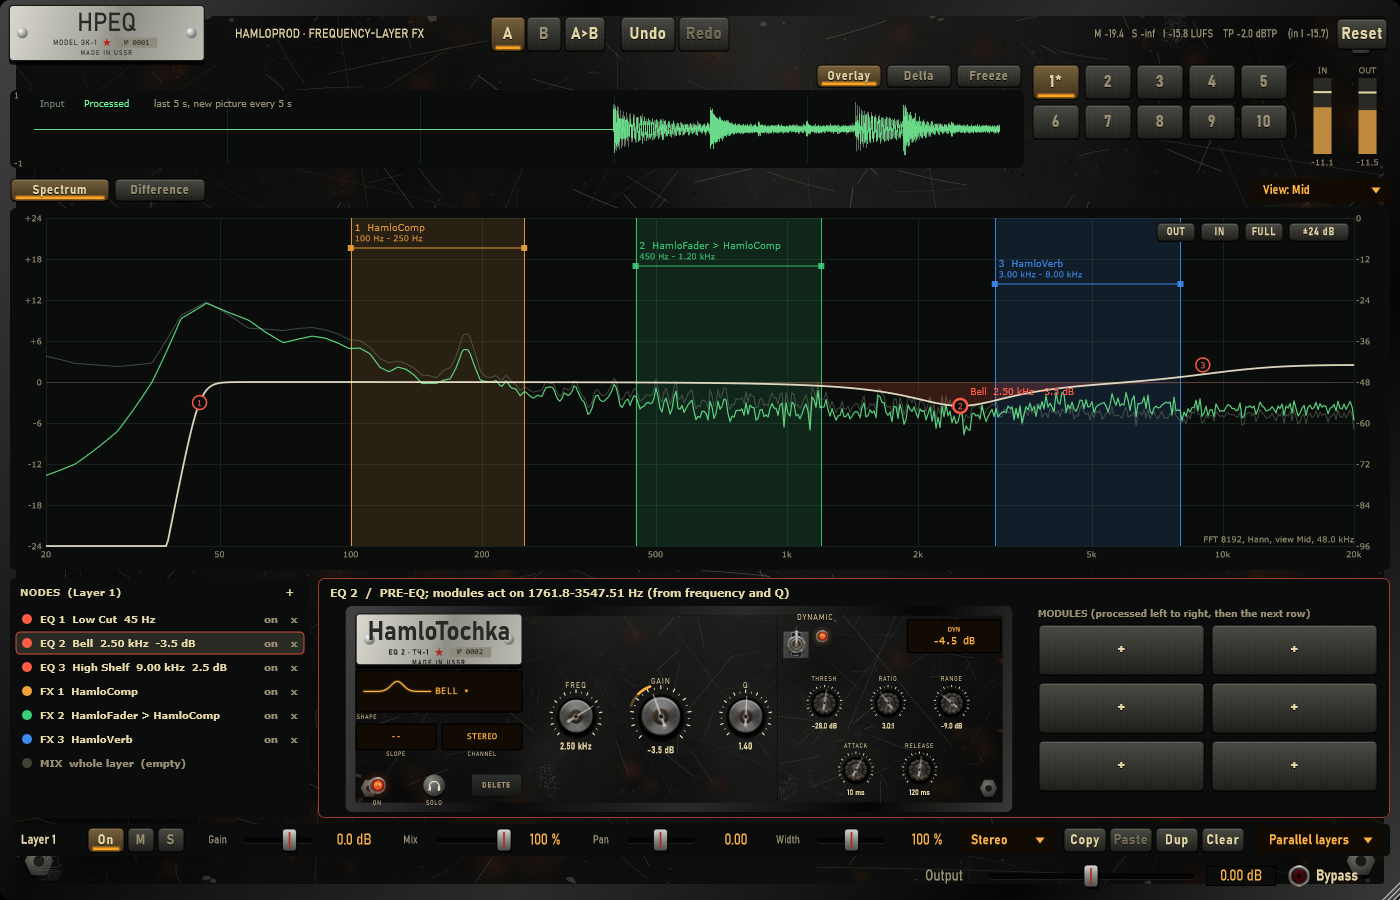
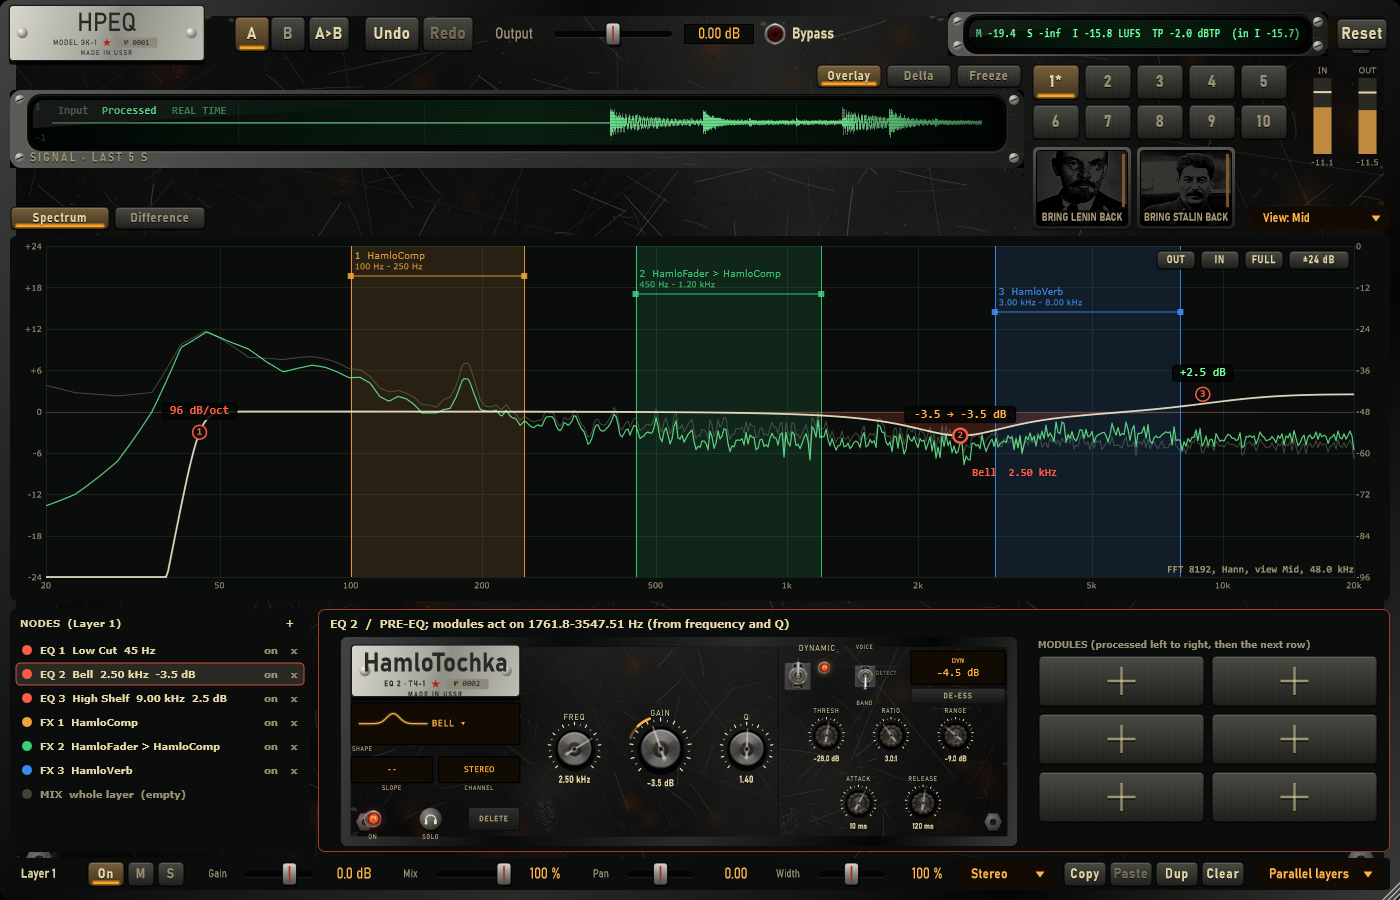
De-esser on the EQ point: DETECT BAND / VOICE and a DE-ESS button
The point's DYNAMIC can now detect against the voice body (300 Hz - 3 kHz):
it reacts to how far an "s" stands out over the voice, not to how loud the
singer is. DE-ESS sets the point as a de-esser (bell 7 kHz Q 0.8, VOICE,
-28 dB, ratio 4, range -9 dB, 0.5 / 40 ms). Synthetic voice: "s" -5.5 dB,
vowels 0.0 dB. HPEQ_Tests 1681/1681.

diff --git a/Tests/Unit/EqPassTests.cpp b/Tests/Unit/EqPassTests.cpp
@@ -274,6 +274,85 @@ public:
             plugin->editorBeingDeleted(editor.get());
         }
 
+        beginTest("De-esser on the point (DE-ESS, VOICE): an \"s\" loses >= 4 dB; a vowel, also 6 dB louder, changes <= 0.5 dB; DETECT round-trips; the page button sets the point");
+        {
+            // a synthetic voice: a vowel (180 Hz with formants near 700 / 1200 / 2600 Hz), then an "s" (noise
+            // band-passed around 7 kHz), then the vowel 6 dB louder
+            const int segment = 24000;
+            juce::AudioBuffer<float> x(2, 3 * segment);
+            juce::Random r(7);
+            double z1 = 0.0, z2 = 0.0;
+            const double w = 2.0 * juce::MathConstants<double>::pi * 7000.0 / kFs, alpha = std::sin(w) / 2.0, a0 = 1.0 + alpha;
+            const double b0 = alpha / a0, b2 = -alpha / a0, a1 = -2.0 * std::cos(w) / a0, a2 = (1.0 - alpha) / a0;
+            for (int i = 0; i < x.getNumSamples(); ++i)
+            {
+                double v = 0.0;
+                const int seg = i / segment;
+                if (seg != 1)
+                {
+                    for (int h = 1; h * 180.0 < 4000.0; ++h)
+                    {
+                        const double f = h * 180.0;
+                        const double formant = std::exp(-std::pow((f - 700.0) / 250.0, 2.0)) + 0.7 * std::exp(-std::pow((f - 1200.0) / 300.0, 2.0))
+                                               + 0.35 * std::exp(-std::pow((f - 2600.0) / 400.0, 2.0)) + 0.02;
+                        v += 0.05 * formant * std::sin(2.0 * juce::MathConstants<double>::pi * f * i / kFs);
+                    }
+                    if (seg == 2)
+                        v *= 2.0;
+                }
+                else
+                {
+                    const double n = 2.0 * r.nextDouble() - 1.0;
+                    const double y = b0 * n + z1;
+                    z1 = -a1 * y + z2;
+                    z2 = b2 * n - a2 * y;
+                    v = 0.6 * y;
+                }
+                x.setSample(0, i, static_cast<float>(v));
+                x.setSample(1, i, static_cast<float>(v));
+            }
+            EqNodeState p;
+            p.id = 1;
+            p.shape = EqShape::Bell;
+            p.frequencyHz = 7000.0;
+            p.q = 0.8;
+            p.dynamic = true;
+            p.detect = 1;
+            p.thresholdDb = -28.0;
+            p.ratio = 4.0;
+            p.rangeDb = -9.0;
+            p.attackMs = 0.5;
+            p.releaseMs = 40.0;
+            const auto y = renderEq(x, { p });
+            const auto rmsDb = [](const juce::AudioBuffer<float>& b, int from, int count)
+            {
+                double e = 0.0;
+                for (int i = from; i < from + count; ++i)
+                    e += static_cast<double>(b.getSample(0, i)) * b.getSample(0, i);
+                return 10.0 * std::log10(e / count + 1.0e-20);
+            };
+            const int skip = 4800; // past the attack / release around each change
+            const double vowel = rmsDb(y, skip, segment - skip) - rmsDb(x, skip, segment - skip);
+            const double ess = rmsDb(y, segment + skip, segment - skip) - rmsDb(x, segment + skip, segment - skip);
+            const double loud = rmsDb(y, 2 * segment + skip, segment - skip) - rmsDb(x, 2 * segment + skip, segment - skip);
+            logMessage("  vowel " + juce::String(vowel, 3) + " dB, s " + juce::String(ess, 2) + " dB, vowel +6 dB " + juce::String(loud, 3) + " dB");
+            expect(ess <= -4.0 && std::abs(vowel) <= 0.5 && std::abs(loud) <= 0.5);
+
+            FxProjectState project;
+            project.layers[0].eqNodes = { p };
+            project.nextNodeId = 2;
+            sanitize(project);
+            const auto back = fromValueTree(juce::ValueTree::fromXml(*toValueTree(project).createXml()));
+            expect(back.has_value() && back->layers[0].eqNodes[0].detect == 1);
+
+            ui::HamloTochkaPanel page;
+            page.setSize(1100, 340);
+            EqNodeState sent;
+            page.onChange = [&](const EqNodeState& n, const juce::String&) { sent = n; };
+            page.pressDeEss();
+            expect(sent.dynamic && sent.detect == 1 && sent.shape == EqShape::Bell && sent.frequencyHz == 7000.0 && sent.rangeDb == -9.0 && sent.attackMs == 0.5);
+        }
+
         beginTest("Steel style: the window and its menus use SteelLookAndFeel while open; the default goes back when the last window closes");
         {
             auto plugin = std::make_unique<FxPluginProcessor>();

diff --git a/Source/UI/HamloTochkaPanel.cpp b/Source/UI/HamloTochkaPanel.cpp
@@ -22,6 +22,8 @@ const juce::Point<float> kOnLamp { 52.0f, 296.0f }, kSolo { 146.0f, 296.0f };
 const juce::Rectangle<float> kDelete { 208.0f, 278.0f, 82.0f, 36.0f };
 const juce::Point<float> kDynLever { 742.0f, 64.0f }, kDynLamp { 786.0f, 50.0f };
 const juce::Rectangle<float> kGainLcd { 928.0f, 24.0f, 152.0f, 52.0f };
+const juce::Point<float> kDetectLever { 852.0f, 64.0f };
+const juce::Rectangle<float> kDeEss { 928.0f, 84.0f, 152.0f, 24.0f };
 const juce::Rectangle<float> kChooser { 18.0f, 14.0f, 1064.0f, 312.0f };
 
 struct KnobInfo
@@ -229,6 +231,37 @@ void HamloTochkaPanel::setDynamic(bool on)
         onGestureEnd();
 }
 
+void HamloTochkaPanel::setDetect(int d)
+{
+    if (onGestureStart)
+        onGestureStart("Detect");
+    values.node.detect = juce::jlimit(0, 1, d);
+    change("Detect");
+    if (onGestureEnd)
+        onGestureEnd();
+}
+
+void HamloTochkaPanel::pressDeEss()
+{
+    if (onGestureStart)
+        onGestureStart("De-ess");
+    auto& n = values.node;
+    n.shape = EqShape::Bell;
+    n.frequencyHz = 7000.0;
+    n.q = 0.8; // wide: sibilance spreads over 4.5 - 11 kHz
+    n.gainDb = 0.0;
+    n.dynamic = true;
+    n.detect = 1;
+    n.thresholdDb = -28.0;
+    n.ratio = 4.0;
+    n.rangeDb = -9.0;
+    n.attackMs = 0.5;
+    n.releaseMs = 40.0;
+    change("De-ess");
+    if (onGestureEnd)
+        onGestureEnd();
+}
+
 void HamloTochkaPanel::openShapes(bool open)
 {
     shapesOpen = open;
@@ -272,6 +305,9 @@ void HamloTochkaPanel::renderStatic(juce::Graphics& g) const
     engraved(g, "ON", { kOnLamp.x - 30.0f, kOnLamp.y + 22.0f, 60.0f, 14.0f }, 11.0f);
     engraved(g, "SOLO", { kSolo.x - 30.0f, kSolo.y + 22.0f, 60.0f, 14.0f }, 11.0f);
     engraved(g, "DYNAMIC", { 700.0f, 10.0f, 150.0f, 18.0f }, 14.0f);
+    engraved(g, "VOICE", { kDetectLever.x - 40.0f, 10.0f, 80.0f, 14.0f }, 10.0f);
+    engraved(g, "BAND", { kDetectLever.x - 40.0f, 100.0f, 80.0f, 14.0f }, 10.0f);
+    engraved(g, "DETECT", { kDetectLever.x + 18.0f, 52.0f, 60.0f, 14.0f }, 9.5f, stencilDim, juce::Justification::centredLeft);
     // a groove between the point and the dynamics
     g.setColour(juce::Colours::black);
     g.drawVerticalLine(712, 20.0f, kH - 20.0f);
@@ -370,6 +406,9 @@ void HamloTochkaPanel::paint(juce::Graphics& g)
     g.setColour(juce::Colours::white);
     lever(g, kDynLever, 0.0f, 1.0f, n.dynamic ? LeverPosition::Up : LeverPosition::Down);
     lamp(g, kDynLamp, n.dynamic && isGain(n.shape), 0.3f, kInk);
+    g.setColour(juce::Colours::white);
+    lever(g, kDetectLever, 0.0f, 0.8f, n.detect == 1 ? LeverPosition::Up : LeverPosition::Down);
+    crtButton(g, kDeEss, "DE-ESS", n.dynamic && n.detect == 1 && isGain(n.shape));
     juce::String line1 = "DYN", line2;
     if (!isGain(n.shape))
         line2 = "GAIN SHAPES";
@@ -460,6 +499,10 @@ void HamloTochkaPanel::mouseDown(const juce::MouseEvent& e)
     }
     if (juce::Rectangle<float>(kDynLever.x - 24.0f, kDynLever.y - 34.0f, 72.0f, 60.0f).contains(d))
         return setDynamic(!n.dynamic);
+    if (juce::Rectangle<float>(kDetectLever.x - 24.0f, kDetectLever.y - 34.0f, 48.0f, 60.0f).contains(d))
+        return setDetect(n.detect == 1 ? 0 : 1);
+    if (kDeEss.contains(d))
+        return pressDeEss();
     if (const int k = knobAt(d); k >= 0 && enabledFor(n, static_cast<Param>(k)))
     {
         dragKnob = k;

diff --git a/Source/DSP/PreEqProcessor.cpp b/Source/DSP/PreEqProcessor.cpp
@@ -147,6 +147,7 @@ void PreEqProcessor::prepare(double newSampleRate) noexcept
 {
     sampleRate = newSampleRate;
     rampSteps = stepsFor(kParameterRampSeconds, sampleRate / kControlInterval);
+    voiceG = std::tan(3.14159265358979323846 * 1000.0 / sampleRate);
     birthSteps = stepsFor(kBirthSeconds, sampleRate / kControlInterval);
     mixSteps = stepsFor(kMixRampSeconds, sampleRate);
     crossfadeSteps = stepsFor(kStructureCrossfadeSeconds, sampleRate);
@@ -305,6 +306,25 @@ void PreEqProcessor::detect(Band& b, double l, double r, int numChannels) noexce
         }
     const double c = level > b.env ? b.attackCoef : b.releaseCoef;
     b.env = level + c * (b.env - level);
+    if (b.target.detect == 1)
+    {
+        // the voice body, linked the same way; same attack / release, so the ratio follows syllables
+        const auto voice = [&](int ch, double x) { return std::abs(svf(b.voiceState[static_cast<size_t>(ch)], voiceG, 1.0 / 0.6, 0, x)); };
+        double v = 0.0;
+        if (numChannels == 1)
+            v = voice(0, l);
+        else
+            switch (b.target.channel)
+            {
+                case ChannelMode::Left:  v = voice(0, l); break;
+                case ChannelMode::Right: v = voice(1, r); break;
+                case ChannelMode::Mid:   v = voice(0, 0.5 * (l + r)); break;
+                case ChannelMode::Side:  v = voice(0, 0.5 * (l - r)); break;
+                default:                 v = std::max(voice(0, l), voice(1, r)); break;
+            }
+        const double cv = v > b.voiceEnv ? b.attackCoef : b.releaseCoef;
+        b.voiceEnv = v + cv * (b.voiceEnv - v);
+    }
 }
 
 void PreEqProcessor::advanceControl(Band& b, size_t index) noexcept
@@ -331,7 +351,9 @@ void PreEqProcessor::advanceControl(Band& b, size_t index) noexcept
         }
         b.attackCoef = std::exp(-1.0 / (std::max(0.1, static_cast<double>(t.attackMs)) * 1.0e-3 * sampleRate));
         b.releaseCoef = std::exp(-1.0 / (std::max(5.0, static_cast<double>(t.releaseMs)) * 1.0e-3 * sampleRate));
-        const double over = 20.0 * std::log10(b.env + 1.0e-9) - t.thresholdDb;
+        const double bandDb = 20.0 * std::log10(b.env + 1.0e-9);
+        const double detectDb = t.detect == 1 ? (bandDb < -60.0 ? -200.0 : bandDb - 20.0 * std::log10(b.voiceEnv + 1.0e-9) - 20.0) : bandDb;
+        const double over = detectDb - t.thresholdDb;
         const double knee = over <= -3.0 ? 0.0 : over < 3.0 ? (over + 3.0) * (over + 3.0) / 12.0 : over;
         const double amount = std::min(std::abs(static_cast<double>(t.rangeDb)), knee * (1.0 - 1.0 / std::max(1.0, static_cast<double>(t.ratio))));
         offset = t.rangeDb < 0.0f ? -amount : amount;

diff --git a/Source/Core/FxProjectState.cpp b/Source/Core/FxProjectState.cpp
@@ -45,6 +45,7 @@ const juce::Identifier dynRatio { "dynRatio" };
 const juce::Identifier dynAttackMs { "dynAttackMs" };
 const juce::Identifier dynReleaseMs { "dynReleaseMs" };
 const juce::Identifier dynRangeDb { "dynRangeDb" };
+const juce::Identifier dynDetect { "dynDetect" };
 const juce::Identifier lowHz { "lowHz" };
 const juce::Identifier highHz { "highHz" };
 const juce::Identifier type { "type" };
@@ -525,7 +526,7 @@ juce::ValueTree toValueTree(const FxProjectState& project)
                 nt.setProperty(ids::solo, true, nullptr);
             const EqNodeState plain;
             if (node.dynamic || node.thresholdDb != plain.thresholdDb || node.ratio != plain.ratio || node.attackMs != plain.attackMs
-                || node.releaseMs != plain.releaseMs || node.rangeDb != plain.rangeDb)
+                || node.releaseMs != plain.releaseMs || node.rangeDb != plain.rangeDb || node.detect != plain.detect)
             {
                 nt.setProperty(ids::dynamic, node.dynamic, nullptr);
                 nt.setProperty(ids::dynThresholdDb, exactText(node.thresholdDb), nullptr);
@@ -533,6 +534,8 @@ juce::ValueTree toValueTree(const FxProjectState& project)
                 nt.setProperty(ids::dynAttackMs, exactText(node.attackMs), nullptr);
                 nt.setProperty(ids::dynReleaseMs, exactText(node.releaseMs), nullptr);
                 nt.setProperty(ids::dynRangeDb, exactText(node.rangeDb), nullptr);
+                if (node.detect != 0)
+                    nt.setProperty(ids::dynDetect, node.detect, nullptr);
             }
             if (!node.chain.empty())
             {
@@ -634,6 +637,7 @@ std::optional<FxProjectState> fromValueTree(const juce::ValueTree& root, juce::S
                 node.attackMs = readDouble(nt, ids::dynAttackMs, 10.0);
                 node.releaseMs = readDouble(nt, ids::dynReleaseMs, 120.0);
                 node.rangeDb = readDouble(nt, ids::dynRangeDb, -6.0);
+                node.detect = juce::jlimit(0, 1, static_cast<int>(nt.getProperty(ids::dynDetect, 0)));
                 node.engineSlot = nt.getProperty(ids::engineSlot, -1);
                 for (const auto& st : nt)
                     if (st.hasType(ids::slot))

diff --git a/Source/DSP/PreEqProcessor.h b/Source/DSP/PreEqProcessor.h
@@ -27,7 +27,10 @@ namespace hpeq::dsp
 // (band pass at the point for Bell, low / high pass at f for the shelves, broadband for Tilt; channels
 // linked by the larger level): level over threshold, 6 dB soft knee, (1 - 1/ratio), limited to |range|,
 // down for a negative range, up for a positive one; attack / release on the detector. The offset rides
-// on the control clock like the gain itself. SOLO: after all bands the signal goes through a filter on
+// on the control clock like the gain itself. DETECT VOICE (a de-esser on the point): the detector level is
+// the region's level over the voice body's (band pass 1 kHz, Q 0.6: 300 Hz - 3 kHz) minus 20 dB, so the
+// threshold reads the same way (-30 dB = the region 10 dB under the voice), with a floor at -60 dBFS so
+// quiet hiss never triggers it. SOLO: after all bands the signal goes through a filter on
 // the soloed point (band pass at f and Q; low pass for a low shelf / low cut, high pass for a high shelf /
 // high cut), crossfaded in and out over 10 ms. Without either, the processing is unchanged.
 class PreEqProcessor
@@ -93,6 +96,8 @@ private:
         LinearRamp wet, crossfade;          // sample rate
         // DYNAMIC: detector filter (TPT SVF) and envelope, the gain offset in dB
         double env = 0.0, dynOffset = 0.0, detG = 0.0, detK = 1.0, detF = -1.0, detQ = -1.0, attackCoef = 0.0, releaseCoef = 0.0;
+        double voiceEnv = 0.0; // VOICE detection: the voice body's level (300 Hz - 3 kHz)
+        std::array<std::array<double, 2>, kMaxChannels> voiceState {};
         int detType = 0; // 0 band pass, 1 low pass, 2 high pass, 3 broadband
         std::array<std::array<double, 2>, kMaxChannels> detState {};
     };
@@ -113,7 +118,7 @@ private:
 
     // SOLO (listen)
     int soloBand = -1, soloType = 0;
-    double soloMix = 0.0, soloG = 0.0, soloK = 1.0;
+    double soloMix = 0.0, soloG = 0.0, soloK = 1.0, voiceG = 0.0;
     std::array<std::array<double, 2>, kMaxChannels> soloState {};
 };
 } // namespace hpeq::dsp

diff --git a/Source/UI/HamloTochkaPanel.h b/Source/UI/HamloTochkaPanel.h
@@ -15,7 +15,8 @@ namespace hpeq::ui
 // CHANNEL windows, ON lamp, SOLO (headphones: hear only this point's region, as FabFilter's listen),
 // DELETE. Middle: FREQ, GAIN, Q; the GAIN knob carries a ring for the dynamic range and the gain the
 // dynamics add right now. Right: DYNAMIC lever and lamp, THRESH, RATIO, RANGE, ATTACK, RELEASE, and an
-// LCD with the current dynamic gain. The point's modules stay in the grid next to the page.
+// LCD with the current dynamic gain, DETECT (BAND / VOICE: the region against the voice body) and DE-ESS
+// (one press makes the point a de-esser). The point's modules stay in the grid next to the page.
 class HamloTochkaPanel final : public juce::Component, private juce::Timer
 {
 public:
@@ -50,6 +51,8 @@ public:
     void chooseShape(EqShape);
     void pressSolo();
     void setDynamic(bool);
+    void setDetect(int);  // 0 BAND, 1 VOICE
+    void pressDeEss();    // the point as a de-esser: bell 7 kHz, Q 0.8, VOICE, range -9, 0.5 / 40 ms
     void openShapes(bool open);
     void settleDynamicGain(float db);
 

diff --git a/Source/Core/FxProjectState.h b/Source/Core/FxProjectState.h
@@ -52,6 +52,10 @@ struct EqNodeState
     bool solo = false;
     bool dynamic = false;
     double thresholdDb = -30.0, ratio = 3.0, attackMs = 10.0, releaseMs = 120.0, rangeDb = -6.0;
+    // DETECT (de-esser on the point, owner 2026-10-26): 0 BAND = the point's own region; 1 VOICE = the
+    // region against the voice body (300 Hz - 3 kHz): it reacts to how far the "s" stands out over the
+    // voice, not to how loud the voice is.
+    int detect = 0;
     // D6: optional modules on the point's band (after PRE-EQ), 0..kMaxFxPerNode, processed in order.
     std::vector<FxSlotState> chain;
     int engineSlot = -1; // stable engine node 0..7 while the chain is not empty (assignEngineSlots)

diff --git a/Source/DSP/LayerSnapshot.cpp b/Source/DSP/LayerSnapshot.cpp
@@ -262,6 +262,7 @@ LayerSnapshot makeSnapshot(const LayerState& layer)
         band.attackMs = static_cast<float>(node.attackMs);
         band.releaseMs = static_cast<float>(node.releaseMs);
         band.rangeDb = static_cast<float>(node.rangeDb);
+        band.detect = node.detect;
     }
     // D6: FX regions and EQ points with modules go to their stable engine nodes. The slots of a
     // sanitized project are kept; an unsanitized layer gets the same assignment on a copy.

diff --git a/Source/DSP/LayerSnapshot.h b/Source/DSP/LayerSnapshot.h
@@ -22,6 +22,7 @@ struct EqBandParams
     ChannelMode channel = ChannelMode::Stereo;
     bool solo = false, dynamic = false; // EQ pass (EqNodeState)
     float thresholdDb = -30.0f, ratio = 3.0f, attackMs = 10.0f, releaseMs = 120.0f, rangeDb = -6.0f;
+    int detect = 0; // 0 BAND, 1 VOICE
 };
 
 // Processor parameter block. The meaning of `values` depends on `type` (see the k* indices).

diff --git a/docs/fx-addon/reports/EQ_PASS_REPORT.md b/docs/fx-addon/reports/EQ_PASS_REPORT.md
@@ -110,3 +110,29 @@ nameplate and scratched pictures.
   picture at every editor tick instead of every 5 s; FREEZE holds it).
 
 ![The module tiles](eq_pass/screenshots/hpeq_module_icons.png)
+
+---
+
+## 7. De-esser on the point (owner, 2026-10-26: "put the de-esser on the point itself")
+
+Instead of a separate module, the EQ point's DYNAMIC got a second detector and a one-press setting:
+
+- **DETECT BAND / VOICE** (`dynDetect`, saved only when VOICE). VOICE compares the point's region with the
+  voice body (band pass 1 kHz, Q 0.6: 300 Hz – 3 kHz), same attack / release: the detector level is
+  region − voice − 20 dB, so the THRESH scale reads as before (−28 dB = the region 8 dB under the voice);
+  below −60 dBFS in the region nothing triggers. It reacts to how far an "s" stands out over the voice, not
+  to how loud the singer is.
+- **DE-ESS** (button on the point page): bell 7 kHz, Q 0.8 (sibilance spreads over ~4.5–11 kHz), static gain
+  0, DYNAMIC on, VOICE, THRESH −28 dB, RATIO 4, RANGE −9 dB, ATTACK 0.5 ms, RELEASE 40 ms. Every value stays
+  editable; SOLO on the point listens to the region.
+- Not on the point: look-ahead (the PRE-EQ has no latency; the 0.5 ms attack catches the "s") and a wide
+  (whole-signal) mode — the reduction is the point's band, as a split de-esser.
+
+| Test (synthetic voice: a vowel 180 Hz with formants 700 / 1200 / 2600 Hz; an "s" = noise around 7 kHz; the vowel +6 dB) | Threshold | Result |
+|---|---|---|
+| "s" | ≥ 4 dB down | −5.52 dB |
+| vowel / vowel 6 dB louder | ±0.5 dB | 0.000 / 0.000 dB |
+| DETECT round-trips; the DE-ESS button sets the point | pass | pass |
+
+Disclosed: the first DE-ESS setting (bell 6.5 kHz, Q 1.5) took the "s" down only 3.69 dB — too narrow for
+sibilance; widened to 7 kHz, Q 0.8 (the threshold unchanged).
